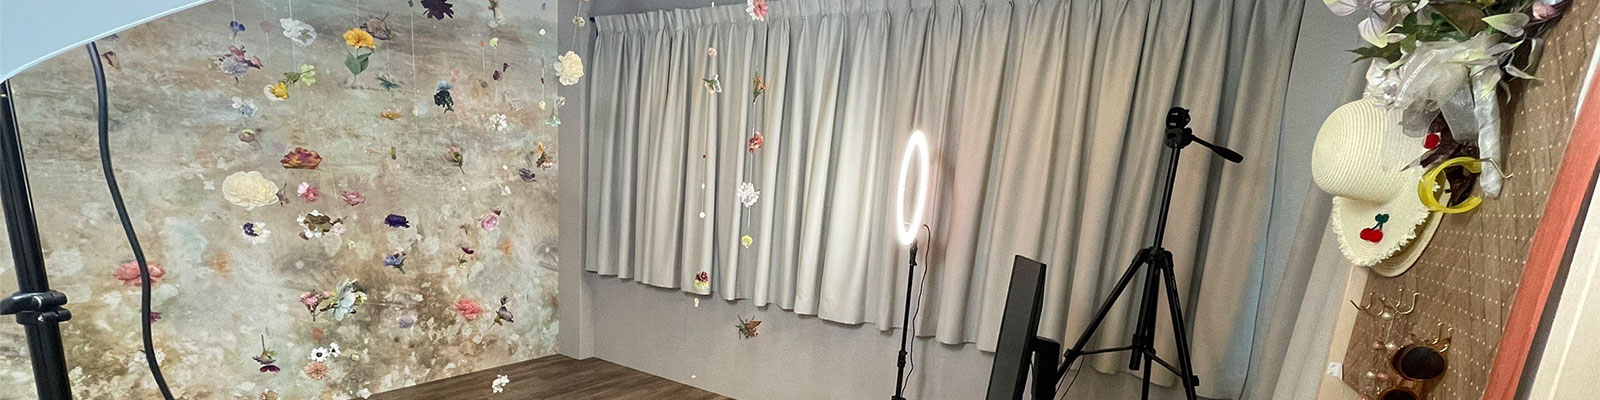
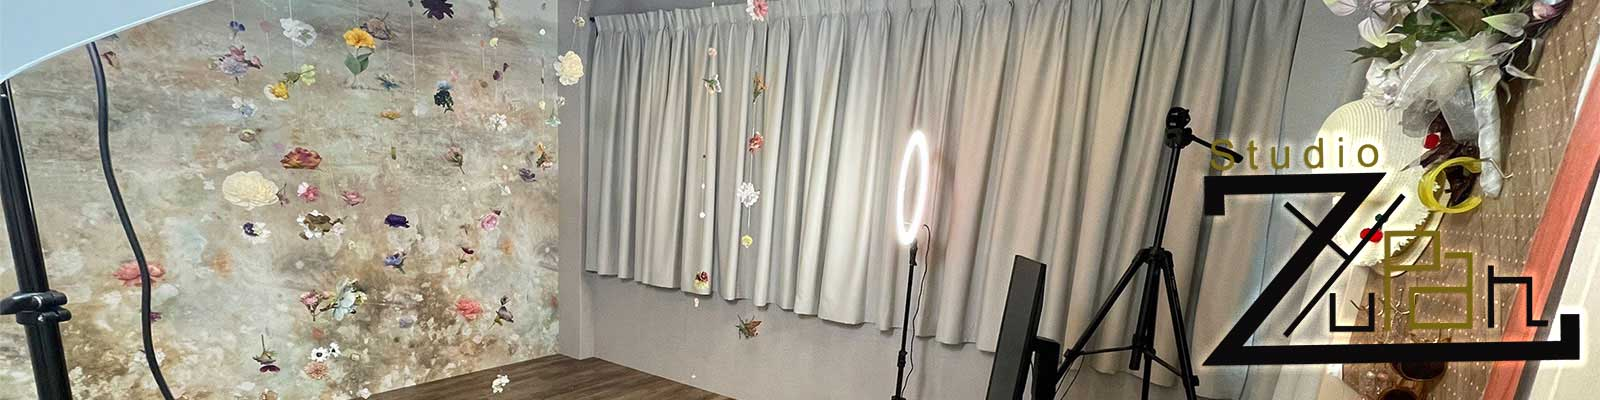
fix

Changed region(s): [[0.75, 0.33, 1.0, 0.93]]

diff --git a/main.css b/main.css
@@ -63,6 +63,18 @@ body a {
       display: block;
       text-align: right; } }
 
+.studio__slidelogo {
+  position: absolute;
+  bottom: 0;
+  left: 15%;
+  transform: translateY(-50%) translateX(-50%);
+  -webkit-transform: translateY(-50%) translateX(-50%); }
+  .studio__slidelogo img {
+    max-width: 194px; }
+    @media (max-width: 768px) {
+      .studio__slidelogo img {
+        max-width: 97px; } }
+
 .studio__news {
   max-height: 300px;
   overflow-y: scroll; }
@@ -269,6 +281,11 @@ body a {
           font-size: 1.5rem; } }
     #footer.studio .information p {
       margin: 0; }
+    #footer.studio .information .logo {
+      padding-top: 15px;
+      padding-bottom: 15px; }
+      #footer.studio .information .logo span img {
+        max-width: 97px; }
   #footer.studio .nav {
     padding-top: 20px;
     padding-bottom: 20px;

diff --git a/sass/main.scss b/sass/main.scss
@@ -71,6 +71,19 @@ body {
       }
     }
   }
+  &__slidelogo {
+    position: absolute;
+    bottom: 0;
+    left: 15%;
+    transform: translateY(-50%) translateX(-50%);
+    -webkit-transform: translateY(-50%) translateX(-50%);
+    img {
+      max-width: 194px;
+      @media (max-width: 768px) {
+        max-width: 97px;
+      }
+    }
+  }
   &__news {
     max-height: 300px;
     overflow-y: scroll;
@@ -325,6 +338,15 @@ body {
       }
       p {
         margin: 0;
+      }
+      .logo {
+        padding-top: 15px;
+        padding-bottom: 15px;
+        span {
+          img {
+            max-width: 97px;
+          }
+        }
       }
     }
     .nav {

diff --git a/page-studioc.php b/page-studioc.php
@@ -105,6 +105,76 @@ get_header("studio"); ?>
               </a>
             </div>
           </div>
+          <div class="col-6 col-md-4">
+            <div class="studio__item">
+              <a data-modal="bs-lightbox" href="<?php echo get_template_directory_uri(); ?>/assets/images/studioC/studioC_photo_14.jpg" target="_blank">
+                <img src="<?php echo get_template_directory_uri(); ?>/assets/images/studioC/studioC_photo_14.jpg">
+              </a>
+            </div>
+          </div>
+          <div class="col-6 col-md-4">
+            <div class="studio__item">
+              <a data-modal="bs-lightbox" href="<?php echo get_template_directory_uri(); ?>/assets/images/studioC/studioC_photo_15.jpg" target="_blank">
+                <img src="<?php echo get_template_directory_uri(); ?>/assets/images/studioC/studioC_photo_15.jpg">
+              </a>
+            </div>
+          </div>
+          <div class="col-6 col-md-4">
+            <div class="studio__item">
+              <a data-modal="bs-lightbox" href="<?php echo get_template_directory_uri(); ?>/assets/images/studioC/studioC_photo_16.jpg" target="_blank">
+                <img src="<?php echo get_template_directory_uri(); ?>/assets/images/studioC/studioC_photo_16.jpg">
+              </a>
+            </div>
+          </div>
+          <div class="col-6 col-md-4">
+            <div class="studio__item">
+              <a data-modal="bs-lightbox" href="<?php echo get_template_directory_uri(); ?>/assets/images/studioC/studioC_photo_17.jpg" target="_blank">
+                <img src="<?php echo get_template_directory_uri(); ?>/assets/images/studioC/studioC_photo_17.jpg">
+              </a>
+            </div>
+          </div>
+          <div class="col-6 col-md-4">
+            <div class="studio__item">
+              <a data-modal="bs-lightbox" href="<?php echo get_template_directory_uri(); ?>/assets/images/studioC/studioC_photo_18.jpg" target="_blank">
+                <img src="<?php echo get_template_directory_uri(); ?>/assets/images/studioC/studioC_photo_18.jpg">
+              </a>
+            </div>
+          </div>
+          <div class="col-6 col-md-4">
+            <div class="studio__item">
+              <a data-modal="bs-lightbox" href="<?php echo get_template_directory_uri(); ?>/assets/images/studioC/studioC_photo_19.jpg" target="_blank">
+                <img src="<?php echo get_template_directory_uri(); ?>/assets/images/studioC/studioC_photo_19.jpg">
+              </a>
+            </div>
+          </div>
+          <div class="col-6 col-md-4">
+            <div class="studio__item">
+              <a data-modal="bs-lightbox" href="<?php echo get_template_directory_uri(); ?>/assets/images/studioC/studioC_photo_20.jpg" target="_blank">
+                <img src="<?php echo get_template_directory_uri(); ?>/assets/images/studioC/studioC_photo_20.jpg">
+              </a>
+            </div>
+          </div>
+          <div class="col-6 col-md-4">
+            <div class="studio__item">
+              <a data-modal="bs-lightbox" href="<?php echo get_template_directory_uri(); ?>/assets/images/studioC/studioC_photo_21.jpg" target="_blank">
+                <img src="<?php echo get_template_directory_uri(); ?>/assets/images/studioC/studioC_photo_21.jpg">
+              </a>
+            </div>
+          </div>
+          <div class="col-6 col-md-4">
+            <div class="studio__item">
+              <a data-modal="bs-lightbox" href="<?php echo get_template_directory_uri(); ?>/assets/images/studioC/studioC_photo_22.jpg" target="_blank">
+                <img src="<?php echo get_template_directory_uri(); ?>/assets/images/studioC/studioC_photo_22.jpg">
+              </a>
+            </div>
+          </div>
+          <div class="col-6 col-md-4">
+            <div class="studio__item">
+              <a data-modal="bs-lightbox" href="<?php echo get_template_directory_uri(); ?>/assets/images/studioC/studioC_photo_23.jpg" target="_blank">
+                <img src="<?php echo get_template_directory_uri(); ?>/assets/images/studioC/studioC_photo_23.jpg">
+              </a>
+            </div>
+          </div>
         </div>
       </div>
     </div>

diff --git a/page-studio.php b/page-studio.php
@@ -5,31 +5,26 @@ Template Name: studio
 get_header("studio"); ?>
 
 <main class="studio">
-  <div id="carouselExampleDark" class="carousel carousel-dark slide" data-bs-ride="carousel">
+  <div id="carouselDark" class="carousel carousel-dark slide" data-bs-ride="carousel">
     <div class="carousel-indicators">
-      <button type="button" data-bs-target="#carouselExampleDark" data-bs-slide-to="0" class="active" aria-current="true" aria-label="Slide 1"></button>
-      <button type="button" data-bs-target="#carouselExampleDark" data-bs-slide-to="1" aria-label="Slide 2"></button>
-      <button type="button" data-bs-target="#carouselExampleDark" data-bs-slide-to="2" aria-label="Slide 3"></button>
+      <button type="button" data-bs-target="#carouselDark" data-bs-slide-to="0" class="active" aria-current="true" aria-label="Slide 1"></button>
+      <button type="button" data-bs-target="#carouselDark" data-bs-slide-to="1" aria-label="Slide 2"></button>
+      <button type="button" data-bs-target="#carouselDark" data-bs-slide-to="2" aria-label="Slide 3"></button>
     </div>
     <div class="carousel-inner">
       <div class="carousel-item active" data-bs-interval="10000">
-        <img src="<?php echo get_template_directory_uri(); ?>/assets/images/studio/studio_main1.jpg" class="d-block w-100" alt="...">
+        <img src="<?php echo get_template_directory_uri(); ?>/assets/images/studio/studio_main1.jpg" class="d-block w-100">
       </div>
       <div class="carousel-item" data-bs-interval="2000">
-        <img src="<?php echo get_template_directory_uri(); ?>/assets/images/studio/studio_main2.jpg" class="d-block w-100" alt="...">
+        <img src="<?php echo get_template_directory_uri(); ?>/assets/images/studio/studio_main2.jpg" class="d-block w-100">
       </div>
       <div class="carousel-item">
-        <img src="<?php echo get_template_directory_uri(); ?>/assets/images/studio/studio_main3.jpg" class="d-block w-100" alt="...">
+        <img src="<?php echo get_template_directory_uri(); ?>/assets/images/studio/studio_main3.jpg" class="d-block w-100">
       </div>
     </div>
-    <button class="carousel-control-prev" type="button" data-bs-target="#carouselExampleDark" data-bs-slide="prev">
-      <span class="carousel-control-prev-icon" aria-hidden="true"></span>
-      <span class="visually-hidden">Previous</span>
-    </button>
-    <button class="carousel-control-next" type="button" data-bs-target="#carouselExampleDark" data-bs-slide="next">
-      <span class="carousel-control-next-icon" aria-hidden="true"></span>
-      <span class="visually-hidden">Next</span>
-    </button>
+    <div class="studio__slidelogo">
+      <img src="<?php echo get_template_directory_uri(); ?>/assets/images/studio/logo_studio.png">
+    </div>
   </div>
   <section id="studio-news">
     <div class="container">

diff --git a/footer-studio.php b/footer-studio.php
@@ -23,8 +23,13 @@
       <dl class="information">
         <dt>STUDIO ZYUPAN</dt>
         <dd>
+          <p class="logo">
+            <span class="logo1"><img src="<?php echo get_template_directory_uri(); ?>/assets/images/studio/logo_studio.png"></span>
+            <span class="logo2"><img src="<?php echo get_template_directory_uri(); ?>/assets/images/studio/logo_cafe.png"></span>
+          </p>
           <p class="tel">TEL&#058;090-3945-7449</p>
-          <p class="day">営業時間&#058;00:00 ~ 00:00</p>
+          <p class="day">営業時間&#058;11:00 ~ 17:00</p>
+          <p class="day">定休日&#058;水曜日</p>
         </dd>
       </dl>
       <ul class="nav justify-content-center">
